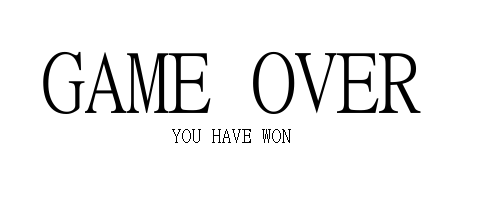
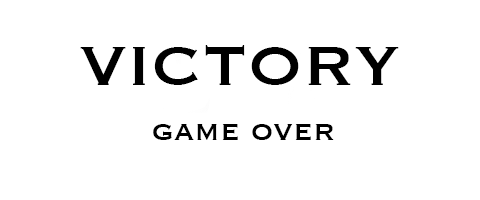
gameover won or lost

Changed region(s): [[0.0625, 0.21, 0.875, 0.57], [0.3125, 0.6, 0.7188, 0.72]]

diff --git a/core/src/screen/GameOverScreen.java b/core/src/screen/GameOverScreen.java
@@ -1,0 +1,66 @@
+package screen;
+
+import camera.OrthoCamera;
+import com.badlogic.gdx.graphics.Texture;
+import com.badlogic.gdx.graphics.g2d.SpriteBatch;
+import com.logoteknia.spaceinvadersjava.SpaceInvaders;
+import com.logoteknia.spaceinvadersjava.TextureManager;
+
+/**
+ * Created by DreddTop on 24/08/15.
+ */
+public class GameOverScreen extends Screen {
+
+    private OrthoCamera camera;
+    private Texture texture;
+
+
+    public GameOverScreen(boolean won) {
+        if (won)
+            texture = TextureManager.GAME_WON;
+        else
+            texture = TextureManager.GAME_OVER;
+    }
+
+    @Override
+    public void create() {
+        camera = new OrthoCamera();
+        camera.resize();
+
+    }
+
+    @Override
+    public void update() {
+        camera.update();
+
+    }
+
+    @Override
+    public void render(SpriteBatch sb) {
+        sb.setProjectionMatrix(camera.combined);
+        sb.begin();
+        sb.draw(texture, SpaceInvaders.WIDTH / 2 - texture.getWidth() / 2, SpaceInvaders.HEIGHT / 2 - texture.getHeight() /2 );
+        sb.end();
+
+    }
+
+    @Override
+    public void resize(int width, int height) {
+        camera.resize();
+    }
+
+    @Override
+    public void dispose() {
+
+    }
+
+    @Override
+    public void pause() {
+
+    }
+
+    @Override
+    public void resume() {
+
+    }
+}

diff --git a/core/src/entity/EntityManager.java b/core/src/entity/EntityManager.java
@@ -6,6 +6,8 @@ import com.badlogic.gdx.math.Vector2;
 import com.badlogic.gdx.utils.Array;
 import com.logoteknia.spaceinvadersjava.SpaceInvaders;
 import com.logoteknia.spaceinvadersjava.TextureManager;
+import screen.GameOverScreen;
+import screen.ScreenManager;
 
 /**
  * Created by DreddTop on 16/08/15.
@@ -43,10 +45,16 @@ public class EntityManager {
     private void checkCollisions() {
         for (Enemy e : getEnemies()) {
             for (Missile m : getMissiles()) {
-                if (e.getBounds().contains(m.getBounds())) {
+                if (e.getBounds().overlaps(m.getBounds())) {
                     entities.removeValue(e, false);
                     entities.removeValue(m, false);
+                    if (gameOver()) {
+                        ScreenManager.setScreen(new GameOverScreen(true));
+                    }
                 }
+            }
+            if (e.getBounds().overlaps(player.getBounds())) {
+                ScreenManager.setScreen(new GameOverScreen(false));
             }
         }
     }

diff --git a/core/src/com/logoteknia/spaceinvadersjava/TextureManager.java b/core/src/com/logoteknia/spaceinvadersjava/TextureManager.java
@@ -12,6 +12,8 @@ public class TextureManager {
     public static final Texture PLAYER = new Texture(Gdx.files.internal("player.png"));
     public static final Texture MISSILE = new Texture(Gdx.files.internal("missile.png"));
     public static final Texture ENEMY = new Texture(Gdx.files.internal("enemy.png"));
+    public static final Texture GAME_OVER = new Texture(Gdx.files.internal("gameover.png"));
+    public static final Texture GAME_WON = new Texture(Gdx.files.internal("gamewon.png"));
 
     public static Texture getENEMY() {
         return ENEMY;

diff --git a/core/src/entity/Entity.java b/core/src/entity/Entity.java
@@ -32,7 +32,6 @@ public abstract class Entity {
     }
 
     public Rectangle getBounds() {
-        System.out.println(position.x + " " + position.y + " " + texture.getWidth() + " " + texture.getHeight());
         return new Rectangle(position.x, position.y, texture.getWidth(), texture.getHeight());
     }
 
